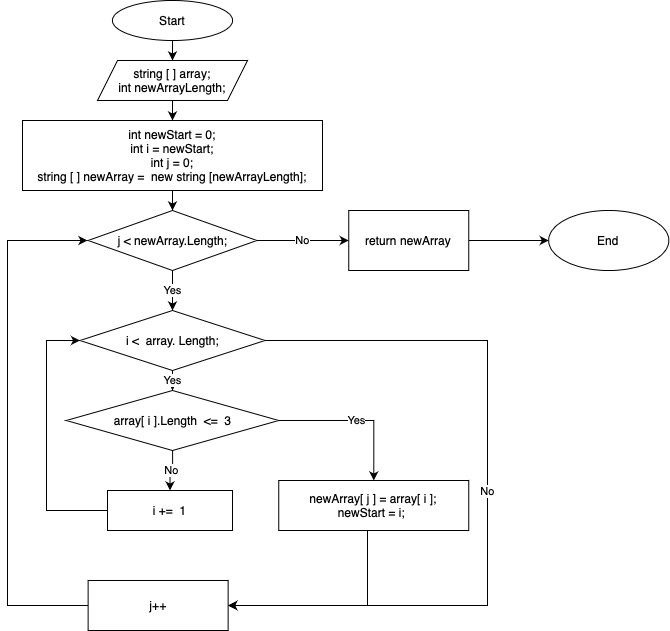
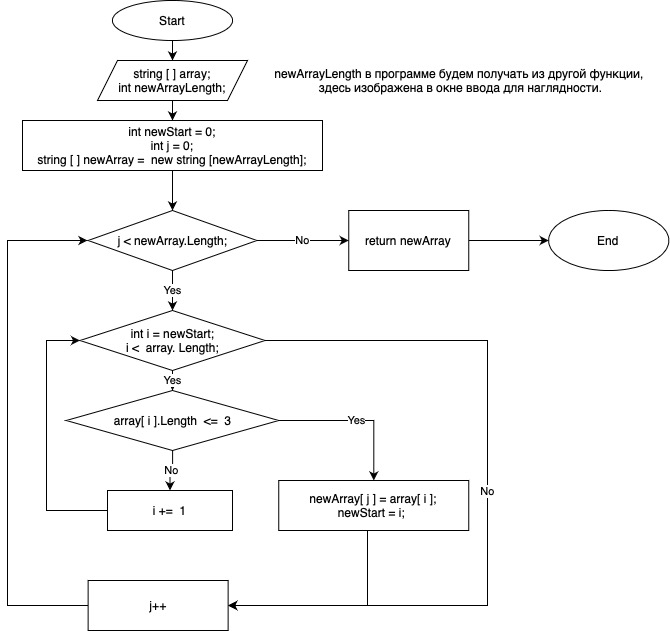
fi[ed
fixed README and task files, changing algorithm image

Changed region(s): [[0.0597, 0.1807, 0.4776, 0.3011], [0.4179, 0.0903, 0.9552, 0.1506], [0.1791, 0.5119, 0.3284, 0.5721]]

diff --git a/task/Program.cs b/task/Program.cs
@@ -4,20 +4,69 @@ string [] exampleThird = {"Russia", "Denmark", "Kazan"};
 
 void ChoiseFunctionProgramm ()
 {
-    Console.WriteLine("This programm choices elements whith smaller 4 signs length in array"
-    +"if you want watching demo, press key 'd', else if you create your array, press key 'm', "
-    +"if you want break this programm, please press any one other key");
+    Console.WriteLine("This program selects elements that are less then or equal to 3 characters long in the array"
+    +"if you want watching demo, press key 'd', else if you want create your array, press key 'm', "
+    +"if you want break this programm, please press key 'q'");
     string userChoise = Console.ReadLine();
-    Console.Write(userChoise);
+    if (userChoise == "d")
+    {
+        Console.WriteLine("First example:");
+        PrintArr(exampleFirst);
+        string [] resultFirst = ChoiceELemsInArr(exampleFirst);
+        PrintArr(resultFirst);
+        Console.WriteLine("Second example:");
+        PrintArr(exampleSecond);
+        string [] resultSecond = ChoiceELemsInArr(exampleSecond);
+        PrintArr(resultSecond);
+        Console.WriteLine("Third example:");
+        PrintArr(exampleThird);
+        string [] resultThird = ChoiceELemsInArr(exampleThird);
+        PrintArr(resultThird);
+        ChoiseFunctionProgramm();
+    }
+    else if (userChoise == "m")
+    {
+        string [] userArray = CreateUserArray();
+        Console.WriteLine("Your array:");
+        PrintArr(userArray);
+        Console.WriteLine("Result:");
+        PrintArr(ChoiceELemsInArr(userArray));
+        ChoiseFunctionProgramm();
+    }
+    else if (userChoise == "q")
+    {
+         Console.Clear();
+    }
+    else 
+    {
+        Console.WriteLine("That command does not exist");
+    }
+   
 }
 ChoiseFunctionProgramm();
+
+string [] CreateUserArray ()
+{
+    Console.WriteLine("Please, enter your array length:");
+    int userArrLength = Convert.ToInt32(Console.ReadLine());
+    string [] userArr = new string [userArrLength];
+    for (int i = 0; i < userArr.Length; i += 1)
+    {
+        Console.WriteLine($"Enter element number {i + 1}");
+        string newElem = Console.ReadLine();
+        userArr[i] = newElem;
+    }
+    return userArr;
+}
 
 void PrintArr (string [] arr)
 {
     Console.Write("[");
     for (int i = 0; i < arr.Length; i += 1)
     {
-        Console.Write($"{arr[i]}, ");
+        if (i < arr.Length - 1) Console.Write($"{arr[i]}, ");
+        else Console.Write($"{arr[i]}");
+        
     }
     Console.Write("]");
     Console.WriteLine();
@@ -61,12 +110,4 @@ string [] ChoiceELemsInArr (string [] oldArr)
         return newArr;
     }
 }
-PrintArr(exampleFirst);
-string [] resultFirst = ChoiceELemsInArr(exampleFirst);
-PrintArr(resultFirst);
-PrintArr(exampleSecond);
-string [] resultSecond = ChoiceELemsInArr(exampleSecond);
-PrintArr(resultSecond);
-PrintArr(exampleThird);
-string [] resultThird = ChoiceELemsInArr(exampleThird);
-PrintArr(resultThird);
+

diff --git a/README.md b/README.md
@@ -5,11 +5,11 @@
 1. ## Начало
 2. ## Ввод массива из строк и длинны нового массива.
 3. ## Создание переменных для счетчиков циклов массивов и точки старта для повторного пребора 1-го массива и пустого массива с длинной newArrayLength;
-4. ## Цикл для заполнения newArray: если j мельше длинны newArray, то переходим в пункт 5, если условие не соблюдается переходим в пункт 6.
+4. ## Цикл для заполнения newArray: если j мельше длинны newArray, то переходим в пункт 5, иначе переходим в пункт 6.
 5. ## Цикл для перебора array:
    1. ### если i < длинны массива, то входим в цикл:
       - проверка элемента массива под индексом i
-        - если длина элемента меньше, либо равно 3, то выводим элемент в консоль и счетчик j увеличиваем на 1, переменной newStart пристваиваем значение i и переходим в пункт 4
+        - если длина элемента меньше, либо равно 3, то выводим элемент в консоль и счетчик j увеличиваем на 1, переменной newStart пристваиваем значение i и возвращаемся в пункт 4
         - иначе просто увеличиваем счетчик i на 1;
    2. ### если i >= длинны массива, то выходим из цикла, увеличиваем счетчик j на 1 и возвращаемся в пункт 4.
 6. ## Возвращаем newArray;
